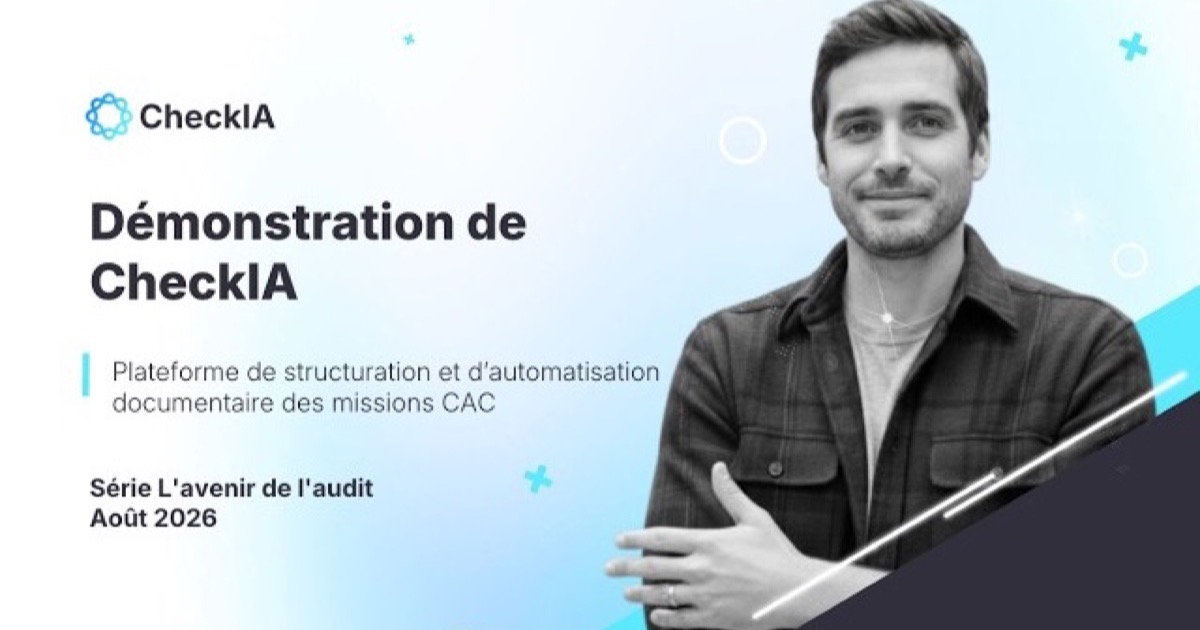
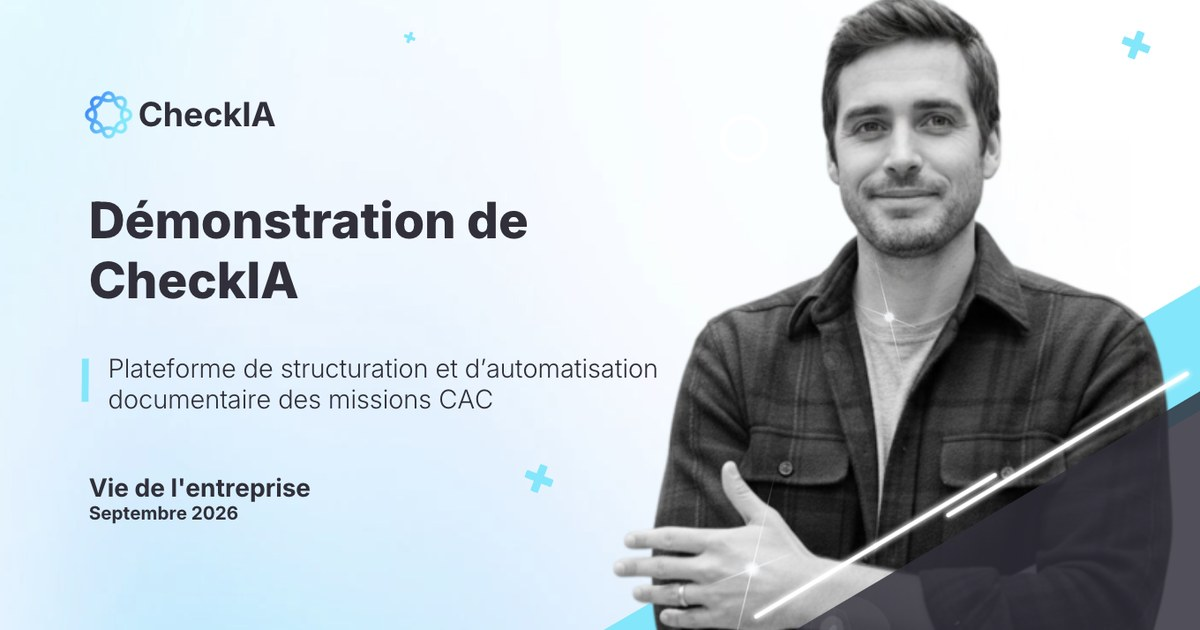
cleanup
cleanup

diff --git a/demo/index.html b/demo/index.html
@@ -60,10 +60,11 @@
     "@type": "VideoObject",
     "name": "CheckIA — l’IA au service des missions spécifiques du commissaire aux comptes",
     "description": "Présentation en vidéo de CheckIA : structuration des données mission, génération documentaire standardisée, centralisation sécurisée des éléments probants et suivi des validations.",
-    "thumbnailUrl": ["https://checkia.fr/images/og-demo.jpg", "https://i.ytimg.com/vi/Fwzmemo-GQk/sddefault.jpg"],
-    "contentUrl": "https://www.youtube.com/watch?v=Fwzmemo-GQk",
-    "embedUrl": "https://www.youtube-nocookie.com/embed/Fwzmemo-GQk",
-    "uploadDate": "2026-08-16",
+    "thumbnailUrl": ["https://checkia.fr/images/og-demo.jpg", "https://i.ytimg.com/vi/Q54ZRWJJQSo/sddefault.jpg"],
+    "contentUrl": "https://www.youtube.com/watch?v=Q54ZRWJJQSo",
+    "embedUrl": "https://www.youtube-nocookie.com/embed/Q54ZRWJJQSo",
+    "uploadDate": "2026-09-02",
+    "duration": "PT3M58S",
     "inLanguage": "fr-FR",
     "publisher": {
       "@type": "Organization",
@@ -130,10 +131,10 @@
     <section class="player-section" id="video">
       <div class="wrap">
         <div class="player-shell reveal">
-          <!-- Identifiant de la vidéo : https://youtu.be/Fwzmemo-GQk
+          <!-- Identifiant de la vidéo : https://youtu.be/Q54ZRWJJQSo
                À reporter aux deux endroits en cas de changement :
                data-video-id ci-dessous et le repli <noscript> plus bas. -->
-          <div class="player" id="player" data-video-id="Fwzmemo-GQk"
+          <div class="player" id="player" data-video-id="Q54ZRWJJQSo"
                data-title="CheckIA — l’IA au service des missions spécifiques du commissaire aux comptes">
             <button class="player__facade" type="button" aria-label="Lire la vidéo : CheckIA — l’IA au service des missions spécifiques du commissaire aux comptes">
               <img class="player__thumb" alt="" aria-hidden="true" decoding="async">
@@ -147,7 +148,7 @@
             <!-- Repli sans JavaScript : lecteur chargé directement.
                  Penser à y reporter le même identifiant. -->
             <noscript>
-              <iframe src="https://www.youtube-nocookie.com/embed/Fwzmemo-GQk?rel=0&amp;modestbranding=1&amp;hl=fr&amp;cc_load_policy=0"
+              <iframe src="https://www.youtube-nocookie.com/embed/Q54ZRWJJQSo?rel=0&amp;modestbranding=1&amp;hl=fr&amp;cc_load_policy=0"
                       title="CheckIA — l’IA au service des missions spécifiques du commissaire aux comptes"
                       allow="accelerometer; autoplay; clipboard-write; encrypted-media; gyroscope; picture-in-picture; web-share"
                       referrerpolicy="strict-origin-when-cross-origin"

diff --git a/blog/vie-de-l-entreprise/ia-missions-specifiques-cac/index.html b/blog/vie-de-l-entreprise/ia-missions-specifiques-cac/index.html
@@ -113,11 +113,11 @@
         "@id": "https://checkia.fr/blog/vie-de-l-entreprise/ia-missions-specifiques-cac/#video",
         "name": "CheckIA — l'IA au service des missions spécifiques du commissaire aux comptes",
         "description": "Démonstration de CheckIA sur les missions spécifiques du commissaire aux comptes : structuration des données mission, génération documentaire standardisée, centralisation sécurisée des éléments probants et suivi des validations.",
-        "thumbnailUrl": ["https://checkia.fr/images/og-demo.jpg", "https://i.ytimg.com/vi/Fwzmemo-GQk/sddefault.jpg"],
-        "contentUrl": "https://www.youtube.com/watch?v=Fwzmemo-GQk",
-        "embedUrl": "https://www.youtube-nocookie.com/embed/Fwzmemo-GQk",
-        "uploadDate": "2026-08-16",
-        "duration": "PT4M8S",
+        "thumbnailUrl": ["https://checkia.fr/images/og-demo.jpg", "https://i.ytimg.com/vi/Q54ZRWJJQSo/sddefault.jpg"],
+        "contentUrl": "https://www.youtube.com/watch?v=Q54ZRWJJQSo",
+        "embedUrl": "https://www.youtube-nocookie.com/embed/Q54ZRWJJQSo",
+        "uploadDate": "2026-09-02",
+        "duration": "PT3M58S",
         "inLanguage": "fr-FR",
         "publisher": { "@id": "https://checkia.fr/#organization" }
       },
@@ -255,15 +255,15 @@
         <div class="wrap">
           <div class="article-media reveal">
             <figure>
-              <div class="videoshell" data-video-id="Fwzmemo-GQk" data-video-title="CheckIA — l'IA au service des missions spécifiques du commissaire aux comptes">
+              <div class="videoshell" data-video-id="Q54ZRWJJQSo" data-video-title="CheckIA — l'IA au service des missions spécifiques du commissaire aux comptes">
                 <img src="/images/og-demo.jpg" width="1200" height="675" alt="Miniature de la vidéo : démonstration de CheckIA, logiciel CAC d'automatisation documentaire." fetchpriority="high" decoding="async">
                 <button class="videoshell__play" type="button" aria-label="Lire la vidéo : démonstration de CheckIA">
                   <span class="videoshell__btn" aria-hidden="true"></span>
                 </button>
-                <span class="videoshell__duration" aria-hidden="true">4:08</span>
+                <span class="videoshell__duration" aria-hidden="true">3:58</span>
                 <noscript>
                   <p style="padding:1rem;color:#fff;">
-                    <a href="https://www.youtube.com/watch?v=Fwzmemo-GQk" style="color:#55e2fa;">Voir la vidéo sur YouTube</a>
+                    <a href="https://www.youtube.com/watch?v=Q54ZRWJJQSo" style="color:#55e2fa;">Voir la vidéo sur YouTube</a>
                   </p>
                 </noscript>
               </div>
